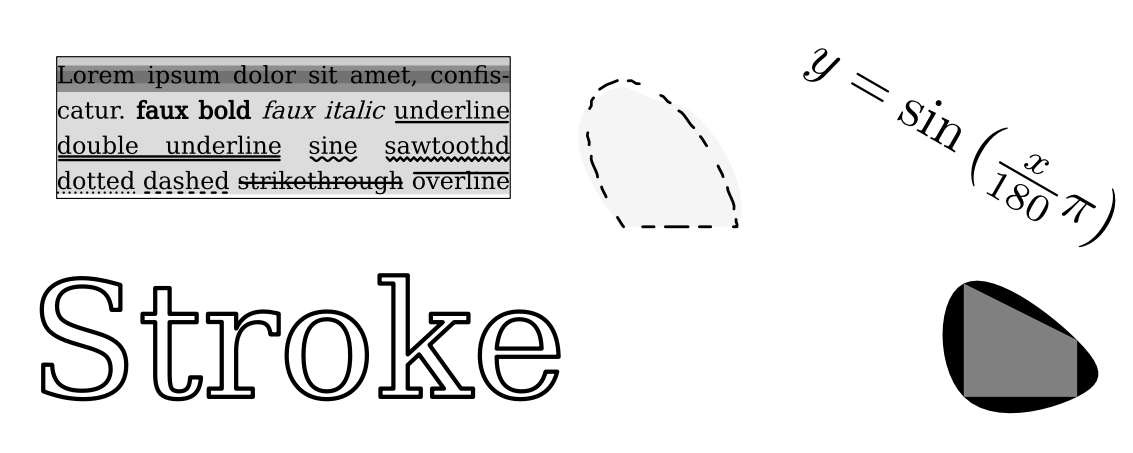
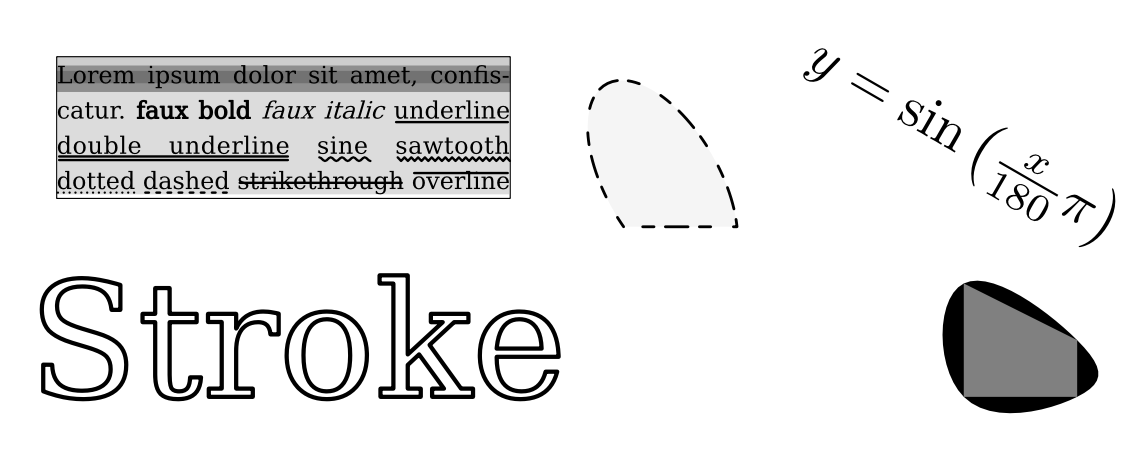
Fix ellipse to bezier flattening

Changed region(s): [[0.0618, 0.3091, 0.4634, 0.3709]]

diff --git a/path_util.go b/path_util.go
@@ -373,42 +373,31 @@ func splitEllipse(rx, ry, phi, cx, cy, theta1, theta2, theta float64) (Point, bo
 	return mid, largeArc0, largeArc1, true
 }
 
-// see Approximation of circular arcs by cubic polynomials, M. Goldapp, Computer Aided Geometric Design 8 (1991), 227--238.
-// the same as used in Cairo in https://github.com/freedesktop/cairo/blob/master/src/cairo-arc.c
-// This implementation has a very convenient error function in contrast to the following paper: Drawing and elliptical arc using
-// polylines, quadratic or cubic Bézier curves (2003), L. Maisonobe, https://spaceroots.org/documents/ellipse/elliptical-arc.pdf
+// see Drawing and elliptical arc using polylines, quadratic or cubic Bézier curves (2003), L. Maisonobe,
+// https://spaceroots.org/documents/ellipse/elliptical-arc.pdf
 func ellipseToBeziers(start Point, rx, ry, phi float64, largeArc, sweep bool, end Point) *Path {
 	p := &Path{}
 	cx, cy, theta0, theta1 := ellipseToCenter(start.X, start.Y, rx, ry, phi, largeArc, sweep, end.X, end.Y)
 
-	i := 1.0
-	dtheta := math.Pi
-	for Tolerance < 2.0/27.0*math.Pow(math.Sin(dtheta/4.0), 6.0)/math.Pow(math.Cos(dtheta/4.0), 2.0) {
-		i += 1.0
-		dtheta = math.Pi / i
-	}
-
-	n := int(math.Abs(theta1-theta0)/dtheta) + 1
+	dtheta := math.Pi / 2.0
+	n := int(math.Ceil(math.Abs(theta1-theta0) / dtheta))
 	dtheta = math.Abs(theta1-theta0) / float64(n) // evenly spread the n points, dalpha will get smaller
-	kappa := 4.0 / 3.0 * math.Tan(dtheta/4.0)
+	kappa := math.Sin(dtheta) * (math.Sqrt(4.0+3.0*math.Pow(math.Tan(dtheta/2.0), 2.0)) - 1.0) / 3.0
 	if !sweep {
 		dtheta = -dtheta
 	}
 
-	center := Point{cx, cy}
+	p.MoveTo(start.X, start.Y)
+	startDeriv := ellipseDeriv(rx, ry, phi, sweep, theta0)
 	for i := 1; i < n+1; i++ {
 		theta := theta0 + float64(i)*dtheta
 		end := ellipsePos(rx, ry, phi, cx, cy, theta)
+		endDeriv := ellipseDeriv(rx, ry, phi, sweep, theta)
 
-		var cp1, cp2 Point
-		if sweep {
-			cp1 = start.Add(start.Sub(center).Rot90CCW().Mul(kappa))
-			cp2 = end.Add(end.Sub(center).Rot90CW().Mul(kappa))
-		} else {
-			cp1 = start.Add(start.Sub(center).Rot90CW().Mul(kappa))
-			cp2 = end.Add(end.Sub(center).Rot90CCW().Mul(kappa))
-		}
+		cp1 := start.Add(startDeriv.Mul(kappa))
+		cp2 := end.Sub(endDeriv.Mul(kappa))
 		p.CubeTo(cp1.X, cp1.Y, cp2.X, cp2.Y, end.X, end.Y)
+		startDeriv = endDeriv
 		start = end
 	}
 	return p
@@ -416,41 +405,6 @@ func ellipseToBeziers(start Point, rx, ry, phi float64, largeArc, sweep bool, en
 
 func flattenEllipse(start Point, rx, ry, phi float64, largeArc, sweep bool, end Point) *Path {
 	return ellipseToBeziers(start, rx, ry, phi, largeArc, sweep, end).Flatten()
-
-	// TODO: make more efficient? The following gives too small spacing with high curvature
-	//p := &Path{}
-	//cx, cy, theta0, theta1 := ellipseToCenter(start.X, start.Y, rx, ry, phi, largeArc, sweep, end.X, end.Y)
-
-	//// calculate the what a deviation of Tolerance would give at the part of the ellipse with the strongest curvature
-	//// ie. at rmax, with rmax put on the x-axis. This will make sure that our maximum deviation is Tolerance on the ellipse.
-	//rmax := math.Max(rx, ry)
-	//rmin := math.Min(rx, ry)
-	//dthetaMin := math.Acos(1 - Tolerance/rmax)
-	//dalpha := 2.0 * math.Atan(rmin/rmax*math.Tan(dthetaMin))
-	//fmt.Println(dalpha, 2.0*math.Atan(rmax/rmin*math.Tan(math.Acos(1-Tolerance/rmin))))
-
-	//alpha0 := angleNorm(math.Atan2(1/ry*math.Sin(theta0), 1/rx*math.Cos(theta0)))
-	//alpha1 := angleNorm(math.Atan2(1/ry*math.Sin(theta1), 1/rx*math.Cos(theta1)))
-	//if theta0 < theta1 && alpha1 < alpha0 {
-	//	alpha1 += 2.0 * math.Pi
-	//} else if theta1 < theta0 && alpha0 < alpha1 {
-	//	alpha1 -= 2.0 * math.Pi
-	//}
-
-	//// number of points needed on this arc, including start and end point (which are set)
-	//n := int(math.Abs(alpha1-alpha0)/dalpha) + 1
-	//dalpha = math.Abs(alpha1-alpha0) / float64(n) // evenly spread the n points, dalpha will get smaller
-	//if alpha1 < alpha0 {
-	//	dalpha = -dalpha
-	//}
-	//for i := 1; i < n; i++ {
-	//	alpha := alpha0 + float64(i)*dalpha
-	//	theta := math.Atan2(ry*math.Sin(alpha), rx*math.Cos(alpha))
-	//	q := ellipsePos(rx, ry, phi, cx, cy, theta)
-	//	p.LineTo(q.X, q.Y)
-	//}
-	//p.LineTo(end.X, end.Y)
-	//return p
 }
 
 ////////////////////////////////////////////////////////////////

diff --git a/example/test.go b/example/test.go
@@ -3,6 +3,7 @@ package main
 import (
 	"fmt"
 	"image/color"
+	"image/png"
 	"os"
 
 	"github.com/tdewolff/canvas"
@@ -31,17 +32,17 @@ func main() {
 
 	////////////////
 
-	//pngFile, err := os.Create("test.png")
-	//if err != nil {
-	//	panic(err)
-	//}
-	//defer pngFile.Close()
+	pngFile, err := os.Create("test.png")
+	if err != nil {
+		panic(err)
+	}
+	defer pngFile.Close()
 
-	//img := c.WriteImage(144.0)
-	//err = png.Encode(pngFile, img)
-	//if err != nil {
-	//	panic(err)
-	//}
+	img := c.WriteImage(144.0)
+	err = png.Encode(pngFile, img)
+	if err != nil {
+		panic(err)
+	}
 }
 
 func drawStrokedPath(c *canvas.C, x, y, d float64, path string) {
@@ -59,14 +60,16 @@ func drawStrokedPath(c *canvas.C, x, y, d float64, path string) {
 }
 
 func Draw(c *canvas.C) {
-	p, _ := canvas.ParseSVG("H20A20 20 0 0 1 0 20V0z")
+	ellipse, _ := canvas.ParseSVG(fmt.Sprintf("A10 20 0 0 0 20 0z"))
 	c.SetColor(canvas.Red)
-	c.DrawPath(50.0, 20.0, 0.0, p)
-	p = p.Flatten()
+	c.DrawPath(50.0, 40.0, 0.0, ellipse)
+	ps := ellipse.SplitAt(10.0)
+	ellipse = ps[0]
+	fmt.Println(ellipse)
+	ellipse = ellipse.Stroke(2.0, canvas.RoundCapper, canvas.RoundJoiner)
+	ellipse = ellipse.Flatten()
 	c.SetColor(canvas.BlackTransparent)
-	c.DrawPath(50.0, 20.0, 0.0, p)
-	c.SetColor(canvas.Black)
-	c.DrawPath(50.0, 20.0, 0.0, canvas.Circle(23.2, 23.2, 2.0))
+	c.DrawPath(50.0, 40.0, 0.0, ellipse)
 
 	//drawStrokedPath(c, 30, 50, 2.0, "M0 0L50 0")
 	//drawStrokedPath(c, 30, 40, 2.0, "M0 0L50 0L50 -5")

diff --git a/path.go b/path.go
@@ -107,6 +107,7 @@ func (p *Path) Join(q *Path) *Path {
 		x1, y1 := q.d[1], q.d[2]
 		if equal(x0, x1) && equal(y0, y1) {
 			q.d = q.d[3:]
+			q.i0 = p.i0
 		}
 	}
 	p.d = append(p.d, q.d...)
@@ -713,6 +714,13 @@ func (p *Path) Replace(line LineReplacer, bezier BezierReplacer, arc ArcReplacer
 		}
 
 		if q != nil {
+			if 0 < len(q.d) && q.d[0] == MoveToCmd {
+				x0, y0 := p.d[i-2], p.d[i-1]
+				x1, y1 := q.d[1], q.d[2]
+				if equal(x0, x1) && equal(y0, y1) {
+					q.d = q.d[3:]
+				}
+			}
 			p.d = append(p.d[:i], append(q.d, p.d[i+cmdLen(cmd):]...)...)
 			i += len(q.d)
 			if q.Empty() {

diff --git a/README.md b/README.md
@@ -23,6 +23,7 @@ Papers
 * [M. Walter, A. Fournier, Approximate Arc Length Parametrization, Anais do IX SIBGRAPHI (1996), p. 143--150](https://www.visgraf.impa.br/sibgrapi96/trabs/pdf/a14.pdf)
 * [T.F. Hain, A.L. Ahmad, S.V.R. Racherla, D.D. Langan, Fast, precise flattening of cubic Bézier path and offset curves, Computers & Graphics 29 (2005). p. 656--666](https://www.sciencedirect.com/science/article/pii/S0097849305001287?via%3Dihub)
 * [M. Goldapp, Approximation of circular arcs by cibic polynomials, Computer Aided Geometric Design 8 (1991), p. 227--238](https://www.sciencedirect.com/science/article/abs/pii/016783969190007X)
+* [Drawing and elliptical arc using polylines, quadratic or cubic Bézier curves (2003), L. Maisonobe](https://spaceroots.org/documents/ellipse/elliptical-arc.pdf)
 
 ## Status
 ### Path
